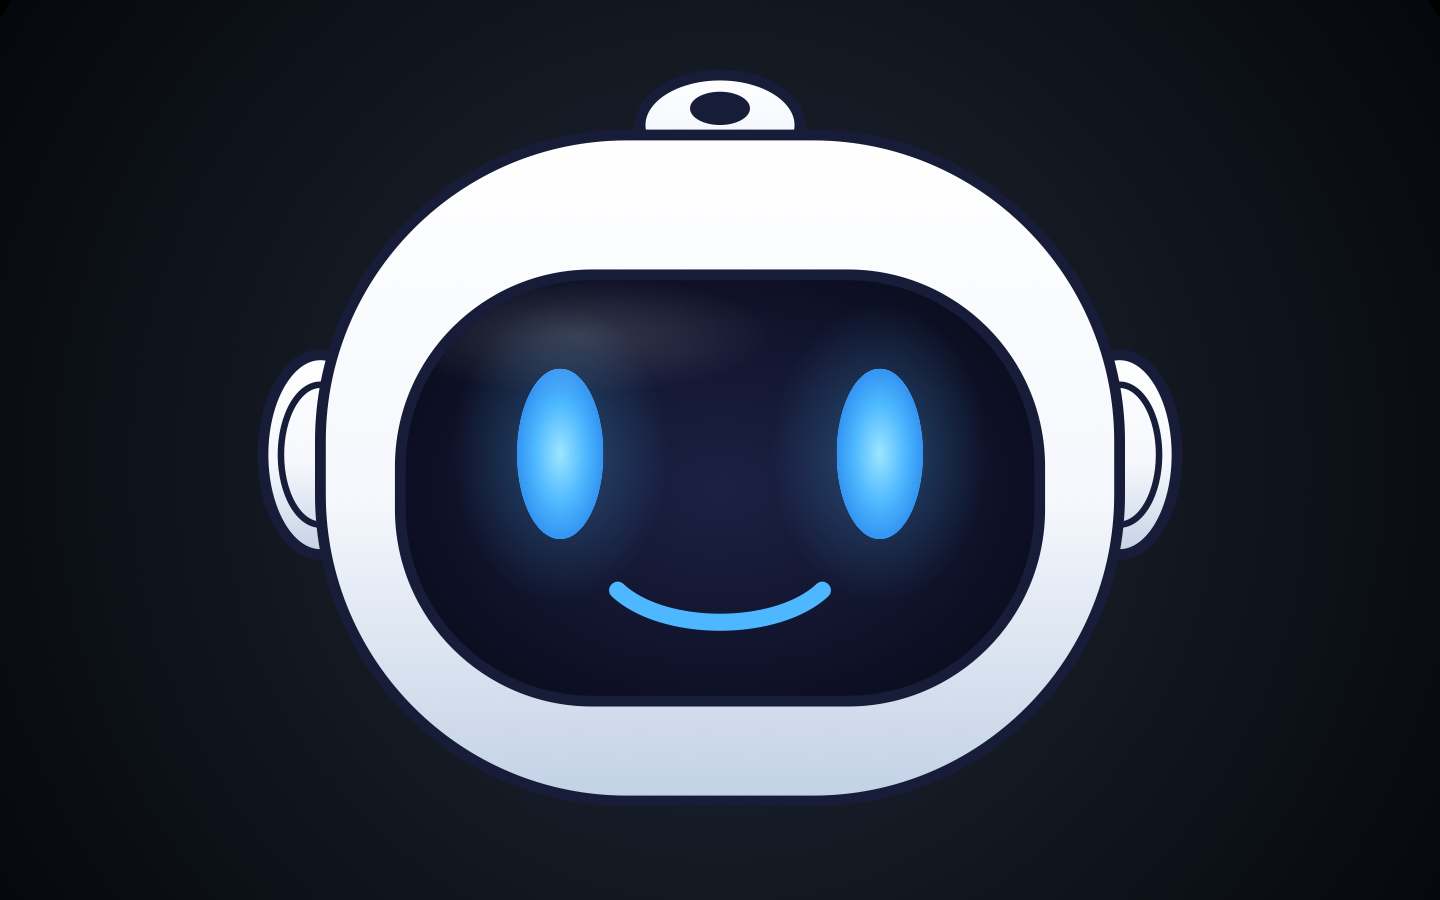
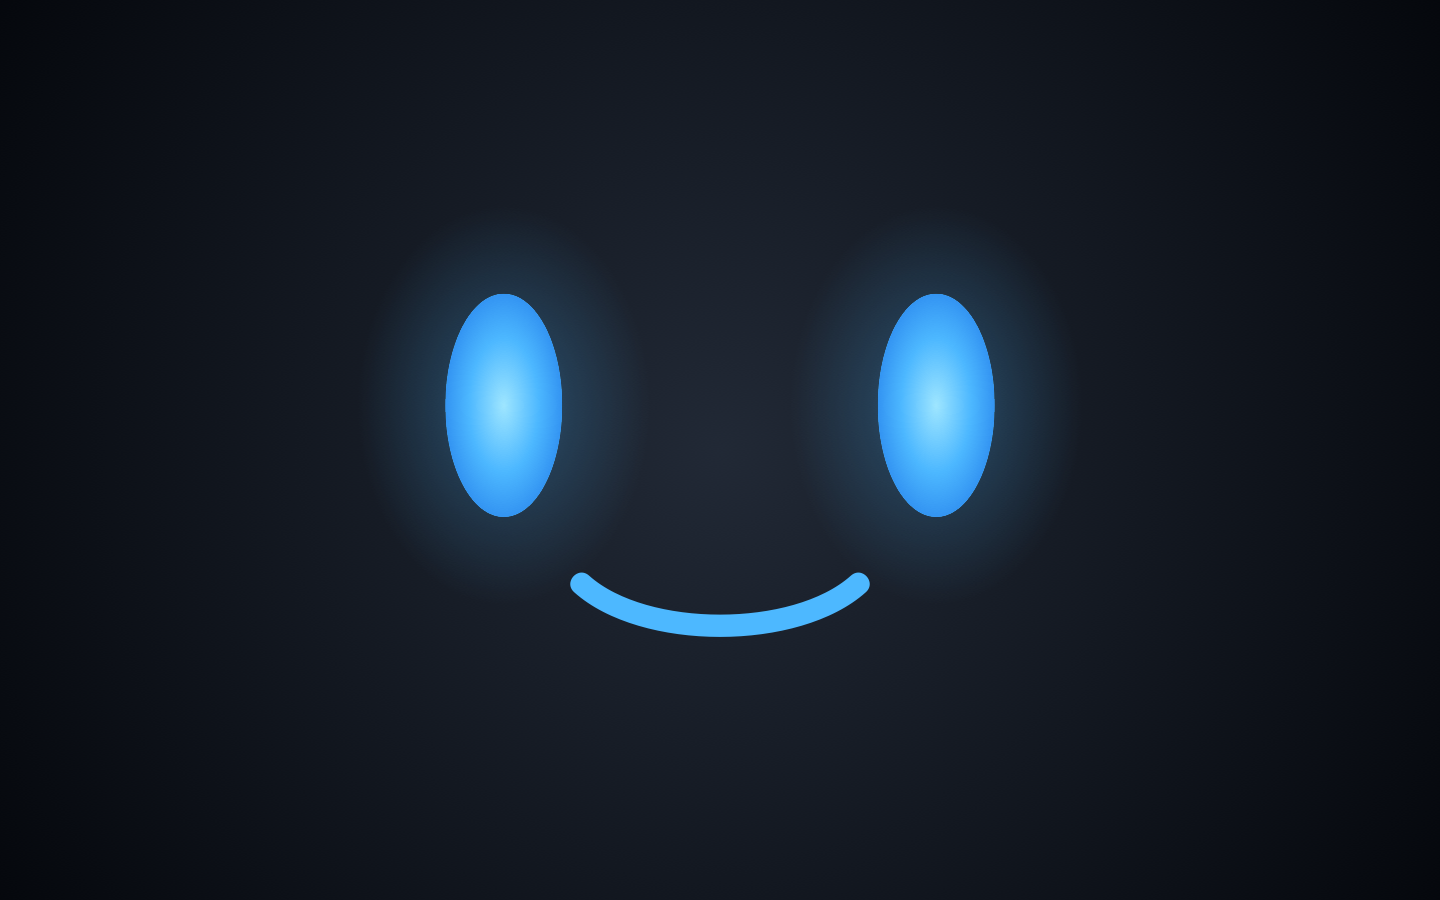
Drop helmet and visor: just glowing eyes and mouth on dark background

Changed region(s): [[0.1562, 0.0933, 0.8438, 0.9022]]

diff --git a/eye_draw.c b/eye_draw.c
@@ -1,9 +1,9 @@
 /*
  * eye_draw.c - Pure CoreGraphics renderer for the robot face.
  *
- * Style: cute cartoon robot head - white helmet with a dark outline,
- * dark visor, two glowing blue oval eyes and a blue mouth that morphs
- * between smile, frown and a surprised "O".
+ * Style: just a cute face floating on a dark background - two glowing
+ * blue oval eyes and a blue mouth that morphs between smile, frown and
+ * a surprised "O".
  *
  * Only uses APIs available on Mac OS X 10.4 (CGShading for gradients,
  * since CGGradient/NSGradient are 10.5+).
@@ -19,27 +19,21 @@
 /* Geometry (fractions)                                               */
 /* ------------------------------------------------------------------ */
 
-#define HEAD_H_FRAC   0.74f   /* head height / min(screen w,h)          */
-#define HEAD_ASPECT   1.20f   /* head width / head height               */
-#define VISOR_W_FRAC  0.80f   /* visor width / head width               */
-#define VISOR_H_FRAC  0.64f   /* visor height / head height             */
+#define FACE_H_FRAC   0.62f   /* face box height / min(screen w,h)      */
+#define FACE_ASPECT   1.55f   /* face box width / face box height       */
 
-#define EYE_X         0.25f   /* eye centre offset / visor width        */
-#define EYE_Y         0.08f   /* eye centre offset / visor height       */
-#define EYE_W         0.135f  /* eye width / visor width                */
-#define EYE_H         0.40f   /* eye height / visor height              */
-#define GAZE_X        0.09f   /* max eye travel / visor width           */
-#define GAZE_Y        0.09f   /* max eye travel / visor height          */
+#define EYE_X         0.25f   /* eye centre offset / face width         */
+#define EYE_Y         0.08f   /* eye centre offset / face height       */
+#define EYE_W         0.135f  /* eye width / face width                 */
+#define EYE_H         0.40f   /* eye height / face height              */
+#define GAZE_X        0.09f   /* max eye travel / face width            */
+#define GAZE_Y        0.09f   /* max eye travel / face height          */
 
-#define MOUTH_Y      -0.24f   /* mouth centre offset / visor height     */
+#define MOUTH_Y      -0.24f   /* mouth centre offset / face height     */
 
 /* ------------------------------------------------------------------ */
 /* Colours                                                            */
 /* ------------------------------------------------------------------ */
-
-#define OUTLINE_R 0.09f       /* dark navy cartoon outline */
-#define OUTLINE_G 0.11f
-#define OUTLINE_B 0.22f
 
 #define GLOW_R    0.30f       /* eye / mouth blue */
 #define GLOW_G    0.72f
@@ -54,15 +48,6 @@ static const Ramp kBackgroundRamp = { 2, {
     { 0.00f, 0.13f, 0.16f, 0.21f, 1.0f },
     { 1.00f, 0.02f, 0.03f, 0.05f, 1.0f } } };
 
-static const Ramp kHelmetRamp = { 3, {           /* top -> bottom */
-    { 0.00f, 1.00f, 1.00f, 1.00f, 1.0f },
-    { 0.55f, 0.96f, 0.97f, 0.99f, 1.0f },
-    { 1.00f, 0.76f, 0.82f, 0.90f, 1.0f } } };
-
-static const Ramp kVisorRamp = { 2, {            /* centre -> edge */
-    { 0.00f, 0.11f, 0.13f, 0.27f, 1.0f },
-    { 1.00f, 0.04f, 0.05f, 0.12f, 1.0f } } };
-
 static const Ramp kGlowRamp = { 3, {
     { 0.00f, GLOW_R, GLOW_G, GLOW_B, 0.45f },
     { 0.45f, GLOW_R, GLOW_G, GLOW_B, 0.18f },
@@ -72,10 +57,6 @@ static const Ramp kEyeRamp = { 3, {              /* centre -> edge */
     { 0.00f, 0.62f, 0.90f, 1.00f, 1.0f },
     { 0.60f, GLOW_R, GLOW_G, GLOW_B, 1.0f },
     { 1.00f, 0.20f, 0.58f, 0.95f, 1.0f } } };
-
-static const Ramp kGlossRamp = { 2, {
-    { 0.00f, 1.0f, 1.0f, 1.0f, 0.16f },
-    { 1.00f, 1.0f, 1.0f, 1.0f, 0.00f } } };
 
 /* ------------------------------------------------------------------ */
 /* Shading helpers                                                    */
@@ -146,16 +127,6 @@ static void Radial(CGContextRef ctx, CGPoint c0, CGFloat r0,
     CGFunctionRelease(fn);
 }
 
-/* Linear gradient from p0 to p1, extended both ways (use with a clip). */
-static void Axial(CGContextRef ctx, CGPoint p0, CGPoint p1, const Ramp *ramp)
-{
-    CGFunctionRef fn = MakeRampFunction(ramp);
-    CGShadingRef sh = CGShadingCreateAxial(RGBSpace(), p0, p1, fn, true, true);
-    CGContextDrawShading(ctx, sh);
-    CGShadingRelease(sh);
-    CGFunctionRelease(fn);
-}
-
 /* Elliptical radial gradient centred on c with radii rx, ry. */
 static void EllipticalRadial(CGContextRef ctx, CGPoint c, CGFloat rx, CGFloat ry,
                              const Ramp *ramp)
@@ -174,140 +145,33 @@ static CGRect CenteredRect(CGPoint c, CGFloat w, CGFloat h)
     return CGRectMake(c.x - w * 0.5f, c.y - h * 0.5f, w, h);
 }
 
-/* CGPathAddRoundedRect is 10.5+, so build it from arcs. */
-static void AddRoundRect(CGContextRef ctx, CGRect r, CGFloat rad)
-{
-    CGFloat minX = CGRectGetMinX(r), maxX = CGRectGetMaxX(r);
-    CGFloat minY = CGRectGetMinY(r), maxY = CGRectGetMaxY(r);
-    CGFloat lim = ((r.size.width < r.size.height) ? r.size.width : r.size.height) * 0.5f;
-
-    if (rad > lim) rad = lim;
-    CGContextMoveToPoint(ctx, minX + rad, minY);
-    CGContextAddArcToPoint(ctx, maxX, minY, maxX, maxY, rad);
-    CGContextAddArcToPoint(ctx, maxX, maxY, minX, maxY, rad);
-    CGContextAddArcToPoint(ctx, minX, maxY, minX, minY, rad);
-    CGContextAddArcToPoint(ctx, minX, minY, maxX, minY, rad);
-    CGContextClosePath(ctx);
-}
-
-static void SetOutline(CGContextRef ctx, CGFloat width)
-{
-    CGContextSetRGBStrokeColor(ctx, OUTLINE_R, OUTLINE_G, OUTLINE_B, 1);
-    CGContextSetLineWidth(ctx, width);
-}
-
-/* White part with vertical shading and a dark outline. */
-static void HelmetEllipse(CGContextRef ctx, CGRect r, CGFloat lw)
-{
-    CGContextSaveGState(ctx);
-    CGContextBeginPath(ctx);
-    CGContextAddEllipseInRect(ctx, r);
-    CGContextClip(ctx);
-    Axial(ctx, CGPointMake(0, CGRectGetMaxY(r)), CGPointMake(0, CGRectGetMinY(r)), &kHelmetRamp);
-    CGContextRestoreGState(ctx);
-    SetOutline(ctx, lw);
-    CGContextStrokeEllipseInRect(ctx, r);
-}
-
 /* ------------------------------------------------------------------ */
 /* Layout                                                             */
 /* ------------------------------------------------------------------ */
 
+/* The face box: eyes and mouth are placed in fractions of it. */
 typedef struct {
-    CGPoint c;          /* head centre      */
-    CGFloat hw, hh;     /* head size        */
-    CGPoint vc;         /* visor centre     */
-    CGFloat vw, vh;     /* visor size       */
-    CGFloat lw;         /* outline width    */
+    CGPoint vc;         /* face centre      */
+    CGFloat vw, vh;     /* face box size    */
 } Layout;
 
 static void DoLayout(CGRect b, Layout *L)
 {
     CGFloat m = (b.size.width < b.size.height) ? b.size.width : b.size.height;
 
-    L->hh = m * HEAD_H_FRAC;
-    L->hw = L->hh * HEAD_ASPECT;
-    L->c = CGPointMake(b.origin.x + b.size.width * 0.5f,
-                       b.origin.y + b.size.height * 0.5f - m * 0.02f);
-    L->vw = L->hw * VISOR_W_FRAC;
-    L->vh = L->hh * VISOR_H_FRAC;
-    L->vc = CGPointMake(L->c.x, L->c.y - L->hh * 0.03f);
-    L->lw = m * 0.012f;
-    if (L->lw < 2) L->lw = 2;
+    L->vh = m * FACE_H_FRAC;
+    L->vw = L->vh * FACE_ASPECT;
+    if (L->vw > b.size.width * 0.95f) {      /* very narrow screens */
+        L->vw = b.size.width * 0.95f;
+        L->vh = L->vw / FACE_ASPECT;
+    }
+    L->vc = CGPointMake(b.origin.x + b.size.width * 0.5f,
+                        b.origin.y + b.size.height * 0.5f);
 }
 
 /* ------------------------------------------------------------------ */
 /* Scene parts                                                        */
 /* ------------------------------------------------------------------ */
-
-static void DrawHead(CGContextRef ctx, const Layout *L)
-{
-    CGFloat earR = L->hh * 0.15f;
-    CGRect head = CenteredRect(L->c, L->hw, L->hh);
-    CGRect ear;
-    int side;
-
-    /* antenna dome peeking over the top */
-    HelmetEllipse(ctx, CenteredRect(CGPointMake(L->c.x, CGRectGetMaxY(head) + L->hh * 0.015f),
-                                    L->hh * 0.24f, L->hh * 0.15f), L->lw);
-    CGContextSetRGBFillColor(ctx, OUTLINE_R, OUTLINE_G, OUTLINE_B, 1);
-    CGContextFillEllipseInRect(ctx, CenteredRect(CGPointMake(L->c.x, CGRectGetMaxY(head) + L->hh * 0.04f),
-                                                 L->hh * 0.09f, L->hh * 0.05f));
-
-    /* ear pods */
-    for (side = -1; side <= 1; side += 2) {
-        CGPoint ec = CGPointMake(L->c.x + side * L->hw * 0.50f, L->c.y + L->hh * 0.02f);
-        ear = CenteredRect(ec, earR * 1.15f, earR * 2.0f);
-        HelmetEllipse(ctx, ear, L->lw);
-        SetOutline(ctx, L->lw * 0.6f);
-        CGContextStrokeEllipseInRect(ctx, CGRectInset(ear, earR * 0.18f, earR * 0.30f));
-    }
-
-    /* helmet */
-    CGContextSaveGState(ctx);
-    CGContextBeginPath(ctx);
-    AddRoundRect(ctx, head, L->hh * 0.46f);
-    CGContextClip(ctx);
-    Axial(ctx, CGPointMake(0, CGRectGetMaxY(head)), CGPointMake(0, CGRectGetMinY(head)), &kHelmetRamp);
-    CGContextRestoreGState(ctx);
-    CGContextBeginPath(ctx);
-    AddRoundRect(ctx, head, L->hh * 0.46f);
-    SetOutline(ctx, L->lw);
-    CGContextStrokePath(ctx);
-}
-
-static void DrawVisor(CGContextRef ctx, const Layout *L)
-{
-    CGRect visor = CenteredRect(L->vc, L->vw, L->vh);
-
-    CGContextSaveGState(ctx);
-    CGContextBeginPath(ctx);
-    AddRoundRect(ctx, visor, L->vh * 0.45f);
-    CGContextClip(ctx);
-    CGContextSetRGBFillColor(ctx, 0.04f, 0.05f, 0.12f, 1);
-    CGContextFillRect(ctx, visor);
-    EllipticalRadial(ctx, L->vc, L->vw * 0.55f, L->vh * 0.60f, &kVisorRamp);
-    CGContextRestoreGState(ctx);
-}
-
-/* Soft glass sheen, drawn last so it sits over the eyes. */
-static void DrawVisorGloss(CGContextRef ctx, const Layout *L)
-{
-    CGRect visor = CenteredRect(L->vc, L->vw, L->vh);
-
-    CGContextSaveGState(ctx);
-    CGContextBeginPath(ctx);
-    AddRoundRect(ctx, visor, L->vh * 0.45f);
-    CGContextClip(ctx);
-    EllipticalRadial(ctx, CGPointMake(L->vc.x - L->vw * 0.22f, L->vc.y + L->vh * 0.36f),
-                     L->vw * 0.30f, L->vh * 0.14f, &kGlossRamp);
-    CGContextRestoreGState(ctx);
-
-    CGContextBeginPath(ctx);
-    AddRoundRect(ctx, visor, L->vh * 0.45f);
-    SetOutline(ctx, L->lw);
-    CGContextStrokePath(ctx);
-}
 
 static void DrawEyes(CGContextRef ctx, const Layout *L, const EyeState *s,
                      CGFloat gx, CGFloat gy)
@@ -384,7 +248,9 @@ CGRect EyeSocketBounds(CGRect bounds)
 {
     Layout L;
     DoLayout(bounds, &L);
-    return CGRectIntegral(CGRectInset(CenteredRect(L.vc, L.vw, L.vh), -L.lw, -L.lw));
+    /* generous margin so the eye glow is always inside */
+    return CGRectIntegral(CGRectInset(CenteredRect(L.vc, L.vw, L.vh),
+                                      -L.vw * 0.05f, -L.vh * 0.10f));
 }
 
 void EyeDraw(CGContextRef ctx, CGRect bounds, const EyeState *s)
@@ -405,20 +271,10 @@ void EyeDraw(CGContextRef ctx, CGRect bounds, const EyeState *s)
 
     CGContextSetRGBFillColor(ctx, 0, 0, 0, 1);
     CGContextFillRect(ctx, bounds);
-    Radial(ctx, L.c, 0, L.c, far, &kBackgroundRamp);
+    Radial(ctx, L.vc, 0, L.vc, far, &kBackgroundRamp);
 
-    DrawHead(ctx, &L);
-    DrawVisor(ctx, &L);
-
-    CGContextSaveGState(ctx);
-    CGContextBeginPath(ctx);
-    AddRoundRect(ctx, CenteredRect(L.vc, L.vw, L.vh), L.vh * 0.45f);
-    CGContextClip(ctx);
     DrawEyes(ctx, &L, s, gx, gy);
     DrawMouth(ctx, &L, s, gx, gy);
-    CGContextRestoreGState(ctx);
-
-    DrawVisorGloss(ctx, &L);
 
     CGContextRestoreGState(ctx);
 }

diff --git a/README.md b/README.md
@@ -2,8 +2,7 @@
 
 A full-screen cute robot face for Mac OS X 10.4.11 on PowerPC. When it launches
 it takes over the screen. It hides the menu bar, Dock and cursor and shows a
-cartoon robot head: a white helmet with a dark visor, two glowing blue oval eyes
-and a blue mouth. The eyes hold a gaze for a random time, then dart to a new
+simple face on a dark background: two glowing blue oval eyes and a blue mouth. The eyes hold a gaze for a random time, then dart to a new
 direction or back to straight ahead. Now and then they do a slow scan, and they
 blink. The mouth mostly smiles, with an occasional frown or a surprised "O".
 **Press any key to quit.**
@@ -31,6 +30,6 @@ You can also double-click `RobotEye.app` in the Finder.
 ## Tuning
 
 - Timing and behavior: the `#define`s at the top of `EyeView.m`.
-- Size and proportions: the `*_FRAC`, `EYE_*` and `MOUTH_Y` values at the top of `eye_draw.c`.
+- Size and proportions: `FACE_*`, `EYE_*`, `GAZE_*` and `MOUTH_Y` at the top of `eye_draw.c`.
 - How often it frowns or looks surprised: `FROWN_CHANCE` and `SURPRISE_CHANCE` in `EyeView.m`.
-- Colors: `GLOW_*` (eyes and mouth) and `OUTLINE_*` in `eye_draw.c`, plus the `Ramp` tables.
+- Colors: `GLOW_*` (eyes and mouth) and `kBackgroundRamp` in `eye_draw.c`.
